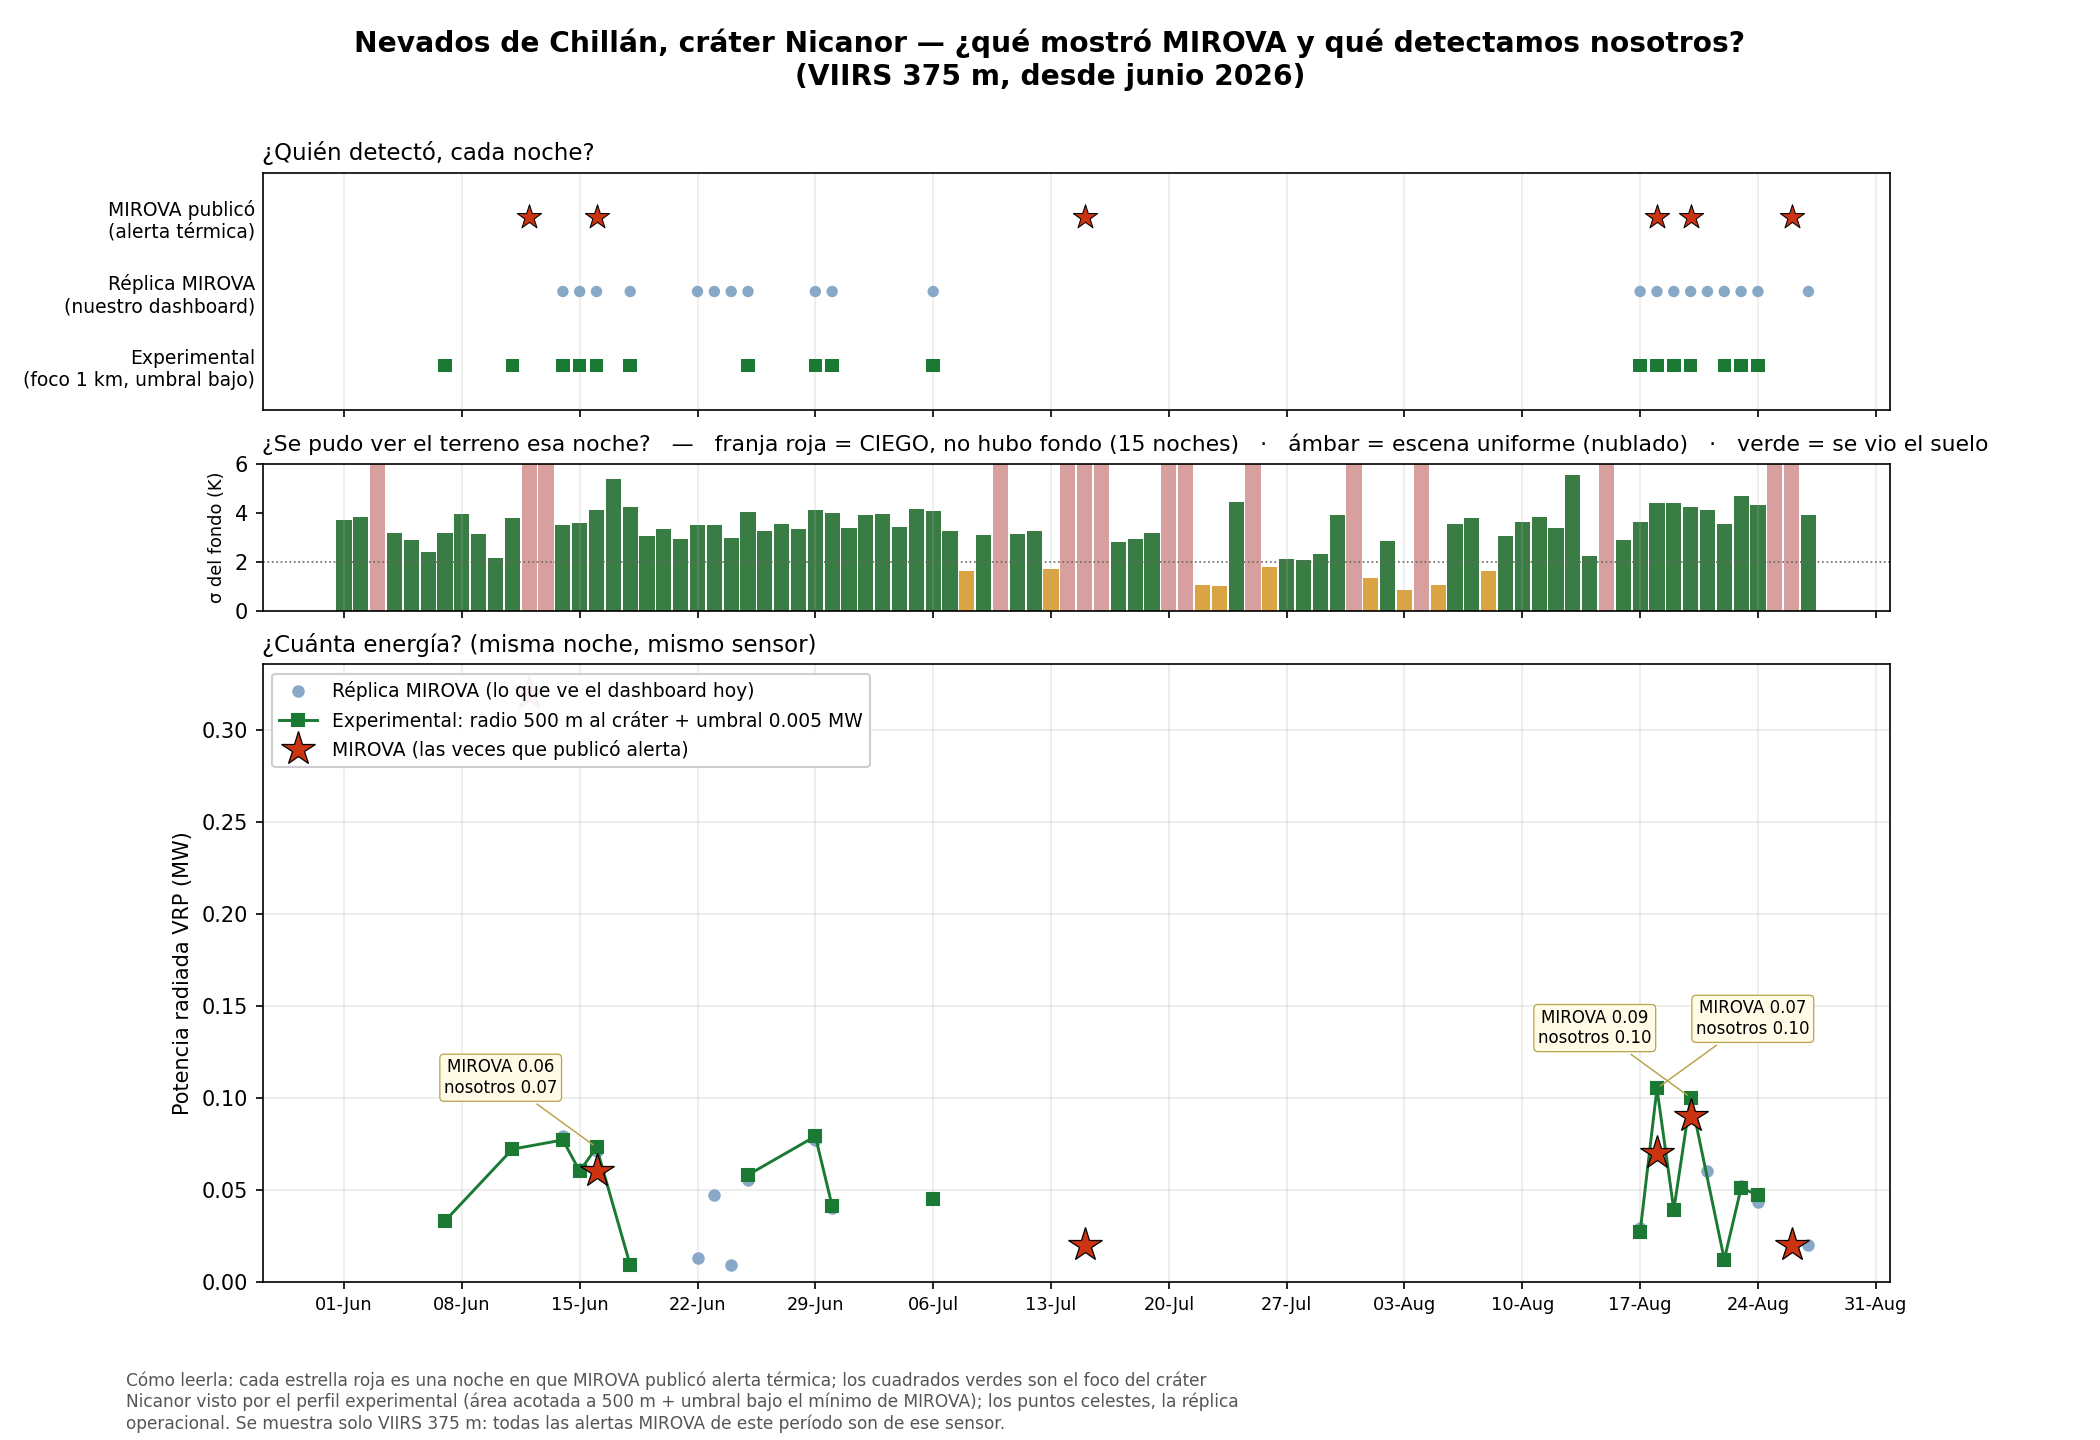
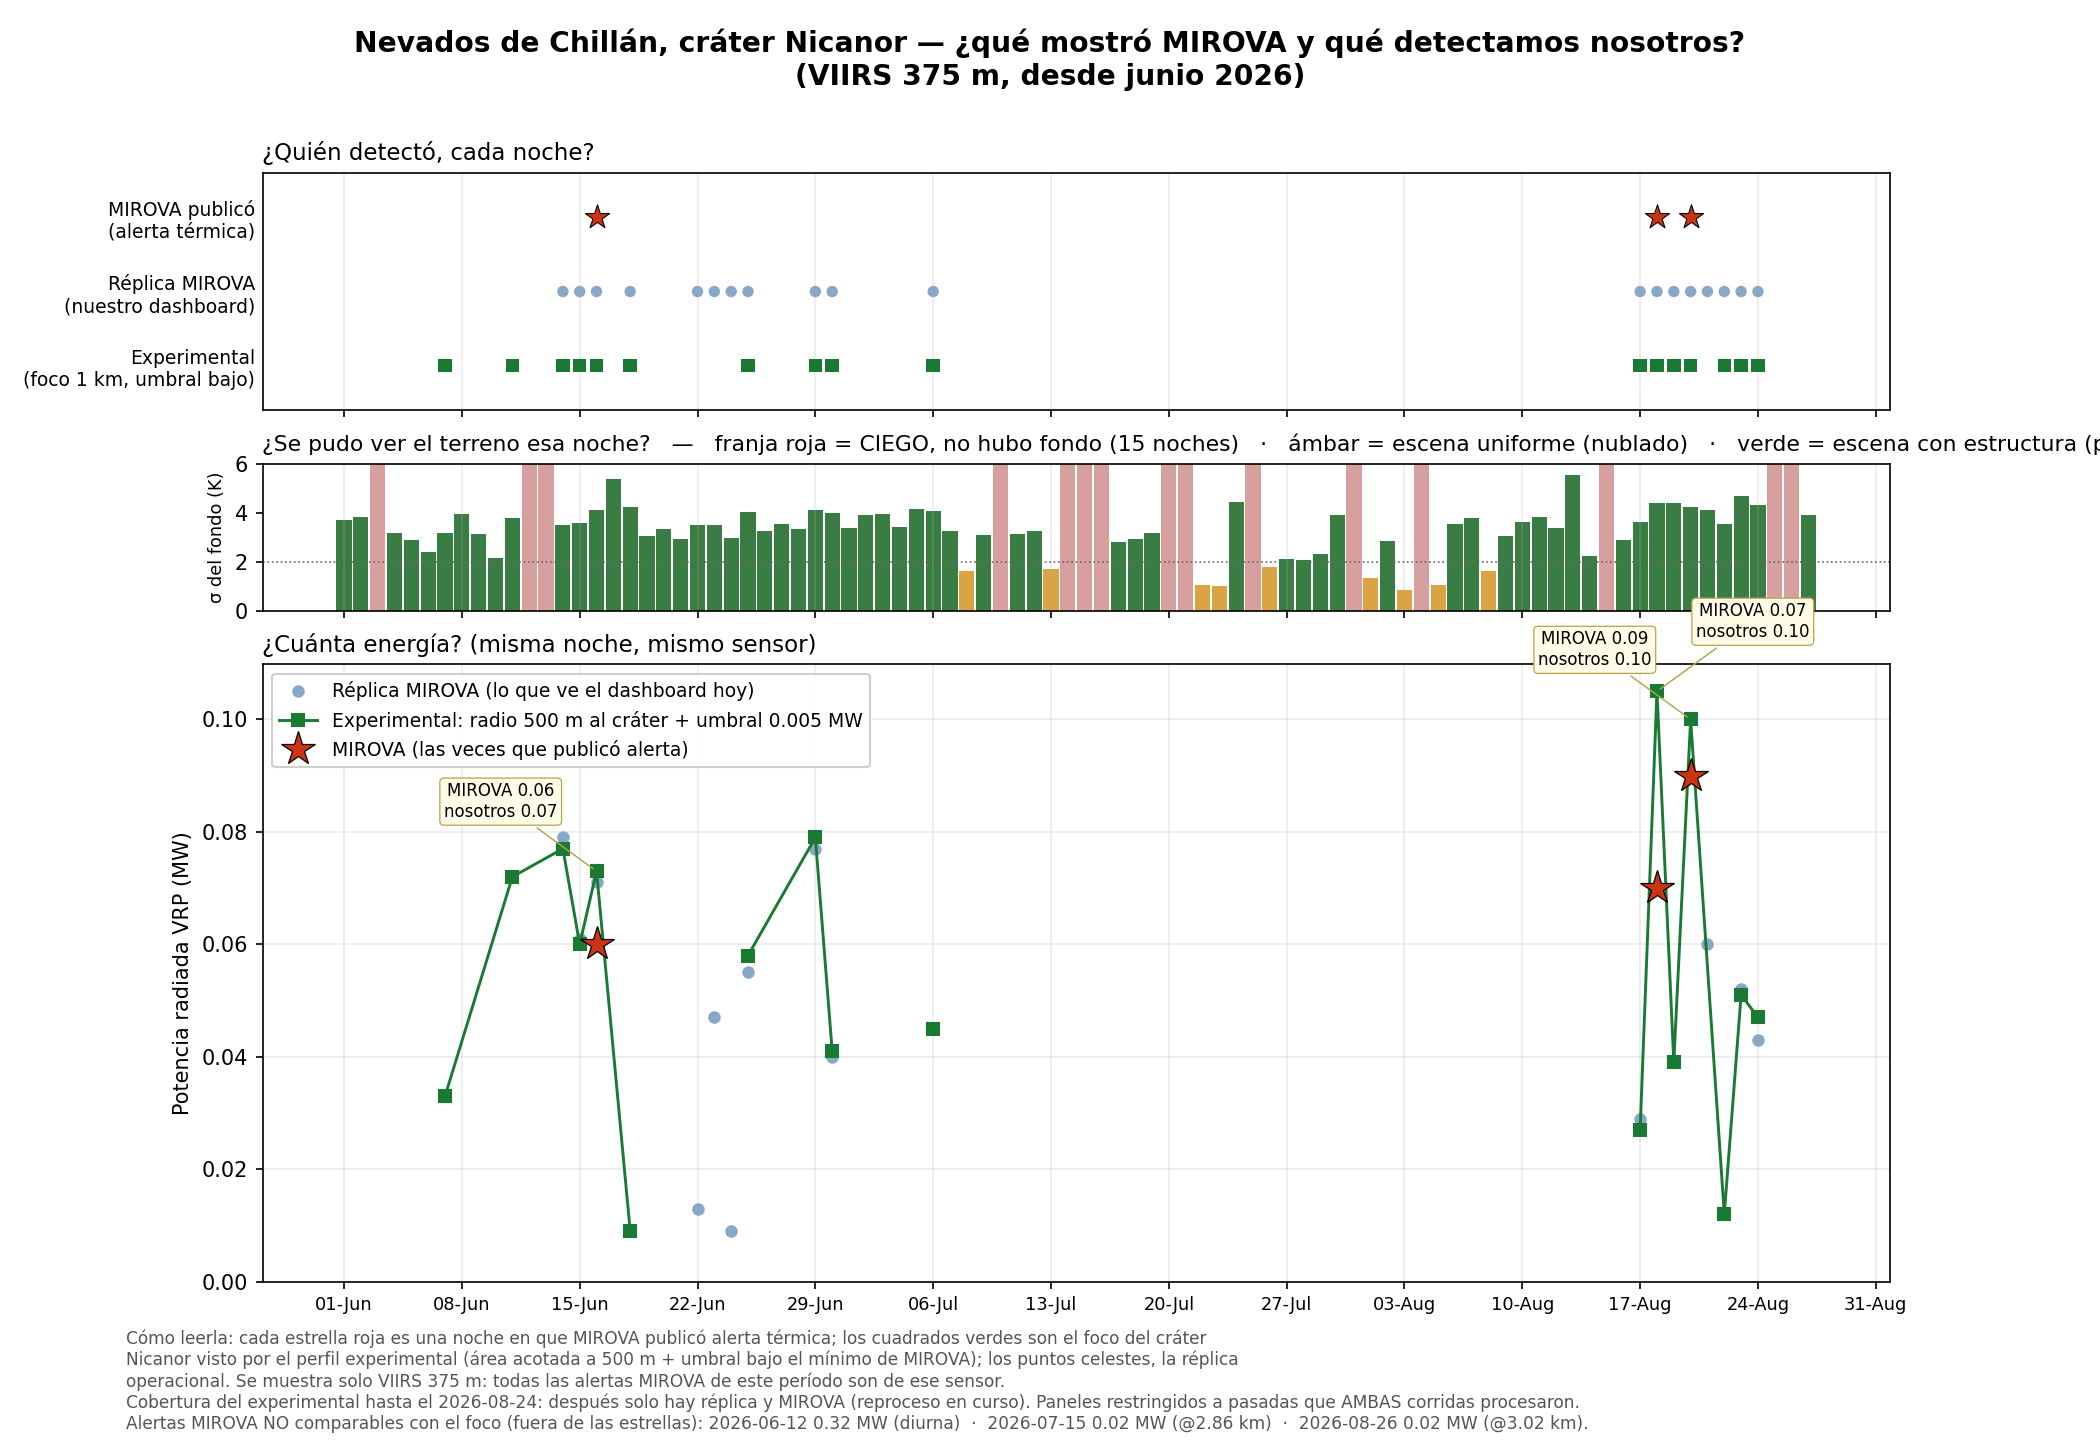
git pull --rebase -q 2>/dev/null; git push -q 2>&1|tail -1; echo pusheado; echo "=== reproceso NdC ==="; gh run view 33108793169 --json status -q .status

diff --git a/experiments/_s124_ndc_focus/plot_simple.py b/experiments/_s124_ndc_focus/plot_simple.py
@@ -54,6 +54,7 @@ def hav(la1, lo1, la2, lo2):
 
 # ── MIROVA: alertas VIIRS375 por noche ──────────────────────────────────────
 mirova = {}
+mirova_excluidas = []   # alertas no comparables (diurnas / lejos del foco)
 with open(ROOT / "latest_consolidado.csv", encoding="utf-8", errors="replace") as fh:
     for r in csv.DictReader(fh):
         if r.get("Volcan") != "Nevados de Chillan":
@@ -67,8 +68,32 @@ with open(ROOT / "latest_consolidado.csv", encoding="utf-8", errors="replace") a
             v = float(r.get("VRP_MW") or 0)
         except ValueError:
             continue
-        if v > 0:
+        # AUDIT S124 (hallazgo 3): solo son COMPARABLES las alertas que nuestro
+        # foco podria reproducir — nocturnas (nuestro pipeline es night-only) y
+        # al crater (Distancia_km <= 0.38, o sea <= 1 celda de la grilla MIROVA,
+        # ver D15). Las demas (diurnas A76 o a 2.9-4.1 km) se listan en la nota
+        # al pie: dibujarlas como estrellas "que no vimos" era comparar contra
+        # algo irreproducible por construccion.
+        try:
+            _D = float(r.get("Distancia_km"))
+        except (TypeError, ValueError):
+            _D = None
+        _hora = int((r.get("Fecha_Satelite_UTC") or "0000-00-00 12")[11:13] or 12)
+        _nocturna = 3 <= _hora <= 9
+        if v > 0 and _nocturna and _D is not None and _D <= 0.38:
             mirova[f] = max(mirova.get(f, 0), v)
+        elif v > 0:
+            mirova_excluidas.append((f, v, _D, "diurna" if not _nocturna else f"@{_D:.2f} km"))
+
+# ── Pasadas COMUNES (hallazgo 7 del audit): las dos corridas difieren en las
+# pasadas DESCARGADAS (16 solo-réplica desde junio). Sin esta restricción, el
+# panel A atribuye a "umbral" diferencias que son de descarga/cobertura.
+def _claves(path):
+    dd_ = json.loads((ROOT / path).read_text(encoding="utf-8"))
+    return {(r["datetime_utc"], r.get("sensor")) for r in dd_["records"]
+            if "VIIRS" in (r.get("sensor") or "") and "750" not in r["sensor"]}
+PASADAS_COMUNES = (_claves("data/mirova_equivalent/NevadosDeChillan.json")
+                   & _claves("data/experimental_ndc_focus/NevadosDeChillan.json"))
 
 # ── Réplica operacional: VIIRS375, filtro del dashboard ─────────────────────
 replica = {}
@@ -77,6 +102,8 @@ for r in d["records"]:
     f = (r.get("datetime_utc") or "")[:10]
     s = r.get("sensor") or ""
     if f < START or "VIIRS" not in s or "750" in s:
+        continue
+    if (r["datetime_utc"], r.get("sensor")) not in PASADAS_COMUNES:
         continue
     pc = r.get("primary_cluster") or {}
     v = pc.get("vrp_mw") or 0
@@ -143,6 +170,8 @@ for r in d["records"]:
     f = (r.get("datetime_utc") or "")[:10]
     if f < START:
         continue
+    if (r["datetime_utc"], r.get("sensor")) not in PASADAS_COMUNES:
+        continue
     pc = r.get("primary_cluster") or {}
     v = pc.get("vrp_mw") or 0
     if v <= 0 or pc.get("centroid_lat") is None:
@@ -150,8 +179,10 @@ for r in d["records"]:
     if hav(NIC[0], NIC[1], pc["centroid_lat"], pc["centroid_lon"]) <= FOCO_KM:
         foco[f] = max(foco.get(f, 0), v)
 
-ventana_foco = (min(d["records"][0]["datetime_utc"][:10], START),
-                d["records"][-1]["datetime_utc"][:10]) if d["records"] else None
+# cobertura REAL del experimental, de los RECORDS (audit h6: inferirla de las
+# detecciones confunde "no detecto" con "no hay data").
+_dias_exp = sorted(set(r["datetime_utc"][:10] for r in d["records"]))
+fin_exp = _dias_exp[-1] if _dias_exp else START
 
 
 def dts(dd):
@@ -204,7 +235,7 @@ axC.set_ylabel("σ del fondo (K)", fontsize=8.5)
 axC.grid(True, axis="x", alpha=0.25)
 axC.set_title("¿Se pudo ver el terreno esa noche?   —   "
               f"franja roja = CIEGO, no hubo fondo ({sum(_ciego)} noches)   ·   "
-              "ámbar = escena uniforme (nublado)   ·   verde = se vio el suelo",
+              "ámbar = escena uniforme (nublado)   ·   verde = escena con estructura (probable suelo visto)",
               loc="left", fontsize=10.5)
 
 # Panel B — cuánta energía
@@ -248,8 +279,12 @@ plt.setp(axB.get_xticklabels(), rotation=0, fontsize=8.5)
 nota = ("Cómo leerla: cada estrella roja es una noche en que MIROVA publicó alerta térmica; los cuadrados verdes son el foco del cráter\n"
         "Nicanor visto por el perfil experimental (área acotada a 500 m + umbral bajo el mínimo de MIROVA); los puntos celestes, la réplica\n"
         "operacional. Se muestra solo VIIRS 375 m: todas las alertas MIROVA de este período son de ese sensor.")
-if ventana_foco and ventana_foco[1] >= "2026-06-25" and min(foco, default="9999") >= "2026-06-25":
-    nota += "\nEl experimental aún no cubre el 01–24 de junio (reproceso en curso); esa franja solo muestra réplica y MIROVA."
+if fin_exp < "2026-08-27":
+    nota += ("\nCobertura del experimental hasta el " + fin_exp + ": después solo hay réplica y MIROVA "
+             "(reproceso en curso). Paneles restringidos a pasadas que AMBAS corridas procesaron.")
+if mirova_excluidas:
+    _exc = "  ·  ".join(x[0] + " " + format(x[1], ".2f") + " MW (" + x[3] + ")" for x in sorted(mirova_excluidas))
+    nota += "\nAlertas MIROVA NO comparables con el foco (fuera de las estrellas): " + _exc + "."
 fig.text(0.06, 0.005, nota, fontsize=8.2, color="#555", va="bottom")
 fig.tight_layout(rect=(0, 0.055, 1, 1))
 out = Path(__file__).parent / "ndc_simple_s124.png"

diff --git a/experiments/_s124_ndc_focus/03_ceguera_y_fondo.py b/experiments/_s124_ndc_focus/03_ceguera_y_fondo.py
@@ -1,22 +1,21 @@
 # -*- coding: utf-8 -*-
-"""S124 — La mascara de nube <260 K nos deja CIEGOS, y ahi perdemos las alertas.
+"""S124 - Ceguera del pipeline (n_bg=0) en NdC. [CORREGIDO tras audit]
 
-POR QUE: Nicolas no reconocia como despejadas semanas que el sabe que fueron de
-temporal (A62). Investigando salio algo mas grave que un panel mal etiquetado.
+ADVERTENCIA (audit S124, subagente): la version original de este script
+concluia "las 3 alertas MIROVA que perdemos caen las 3 en noches ciegas -
+separacion perfecta, no es azar". Esa conclusion era ESPURIA por triple
+confusion: las 3 alertas eran irreproducibles POR CONSTRUCCION, independiente
+de la ceguera: 06-12 es DIURNA 18:18 UTC @ 4.14 km (artefacto solar A76;
+nuestro pipeline es night-only), 07-15 esta @ 2.86 km (fuera del foco) y 08-26
+@ 3.02 km (fuera del foco Y fuera de la cobertura del archivo experimental,
+que termina 08-24). La coincidencia con noches ciegas es real pero NO es la
+causa de "perderlas".
 
-CADENA CAUSAL (medida, no supuesta):
-  1. Noche fria de invierno sobre un volcan nevado -> gran parte del ROI cae
-     bajo 260 K.
-  2. process_viirs.py:681-682 hace `roi_mask &= cloud_free` Y
-     `bg_mask &= cloud_free`: los saca de la busqueda Y del anillo de fondo.
-  3. El anillo queda vacio -> n_bg = 0 -> no hay estadistica de fondo -> no hay
-     deteccion posible. La noche es CIEGA.
-  4. MIROVA no filtra nube (Laiolo 2026: "no atmospheric correction or
-     cloud-contamination automatic filtering"), conserva su fondo y publica.
-
-Y esa mascara es la que MISSION.md:127 declara "Removido S27". Ver D14.
-
-Fuente de verdad de los numeros del informe (regla S91).
+Lo que SI sigue valido de este script: la medicion de la ceguera misma
+(pasadas con n_bg=0 y su relacion con la mascara <260 K), que alimenta D14.
+El cruce contra alertas MIROVA se corrigio para comparar solo alertas
+COMPARABLES (nocturnas + al crater + dentro de cobertura): con ese filtro las
+alertas comparables son 3 y se reproducen las 3, todas en noches con fondo.
 """
 import csv, io, json, math, sys
 from pathlib import Path

diff --git a/experiments/_s124_ndc_focus/plot_mapa.py b/experiments/_s124_ndc_focus/plot_mapa.py
@@ -5,11 +5,10 @@ Responde la pregunta de Nicolas (2026-08-25): "como es posible que replica
 MIROVA tenga mas datos que el experimental? o lo que muestra mirova replica
 estan en sectores mas alejados?"
 
-Respuesta medida: de las 47 noches "summit" de la replica (VIIRS375, desde
-junio), solo 20 tienen su cluster mas cercano a <=1 km del crater Nicanor;
-la mediana esta a 1.80 km y 22 noches caen a 2-5 km. La replica acepta como
-"cumbre" todo lo que caiga dentro del inner de 5 km (KML MIROVA); el
-experimental solo cuenta el crater. Este mapa lo muestra.
+(Los numeros del docstring original quedaron obsoletos tras varios cambios de
+radio y filtros; los vigentes son los que imprime la leyenda al generar. La
+replica acepta como "cumbre" el inner de 5 km del KML MIROVA; el experimental
+solo cuenta el crater. Este mapa lo muestra sobre la grilla real de MIROVA.)
 """
 import json, io, math, sys
 from pathlib import Path
@@ -60,6 +59,11 @@ for r in d["records"]:
 foc = []
 dd = json.loads(FOCO_JSON.read_text(encoding="utf-8"))
 for r in dd["records"]:
+    # AUDIT S124 (subagente, hallazgo 2): el experimental arranca en mayo pero el
+    # titulo dice "desde junio" — sin este filtro, 7 de 30 verdes eran de MAYO y
+    # la densidad visual quedaba sesgada a favor del experimental.
+    if (r.get("datetime_utc") or "")[:10] < "2026-06-01":
+        continue
     pc = r.get("primary_cluster") or {}
     v = pc.get("vrp_mw") or 0
     if v > 0 and pc.get("centroid_lat") is not None and hav(NIC[0], NIC[1], pc["centroid_lat"], pc["centroid_lon"]) <= FOCO_KM:
@@ -83,7 +87,7 @@ if _img is not None:
 # circulos de referencia
 for rkm, col, lab in ((FOCO_KM, "#1a7a33", f"radio experimental ({FOCO_KM*1000:.0f} m)"),):
     c = plt.Circle((0, 0), rkm, fill=False, color=col, lw=2.4,
-                   ls="-" if rkm == 1 else "--", label=lab, zorder=2,
+                   ls="--", label=lab, zorder=2,
                    path_effects=[pe.withStroke(linewidth=4.2, foreground="white")])
     ax.add_patch(c)
 
